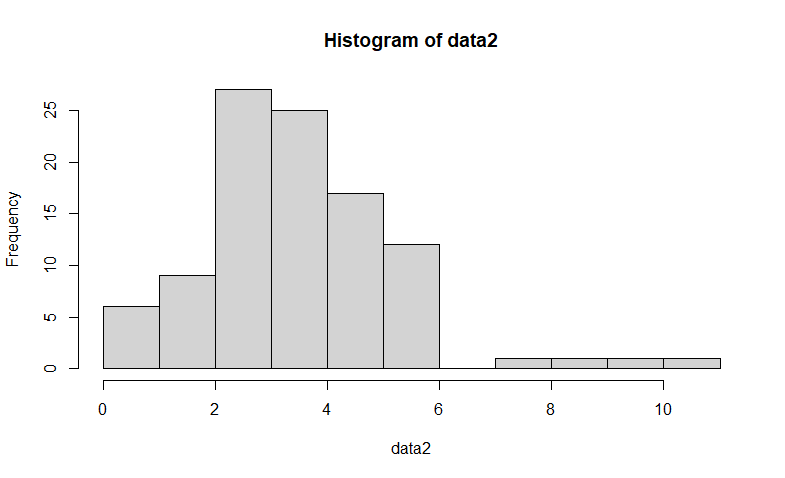
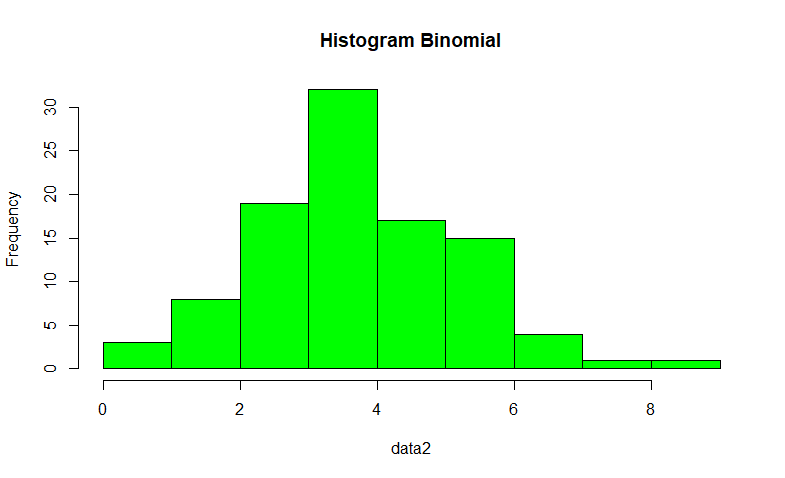
fix: mean and varians for soal2

diff --git a/README.md b/README.md
@@ -117,31 +117,33 @@ Gambarkan grafik histogram berdasarkan kasus tersebut.
 ## b
 n = 100
 data2 = rbinom(n, size, prob) ;data2
-hist(data2)
+
+hist(data2, main = "Histogram Binomial", col = "green")
 ```
 
 ![2.b](screenshot/2.b.png)
 
 ![2.b.1](screenshot/2.b.1.png)
 
-**Penjelasan** : Menggunakan fungsi `rbinom()` untuk mencari distribusi binomial dengan n data random (karena tidak disebutkan disoal, mengambil nilai sembarang `n = 100`) dan fungsi `hist()` untuk membuat histogram distribusi binomial dari `data2`.
+**Penjelasan** : Menggunakan fungsi `rbinom()` untuk mencari distribusi binomial dengan n data random (karena tidak disebutkan disoal, maka mengambil nilai sembarang `n = 100`) dan fungsi `hist()` untuk membuat histogram distribusi binomial dari `data2`.
 
 ### 2.c
 Nilai Rataan (μ) dan Varian (σ²) dari DistribusiBinomial.
 
 ``` r
 ## c
-mean(data2)
-var(data2)
+mean = size * prob ;mean
+
+var = size * prob * (1 - prob) ;var
 ```
 
 ![2.c](screenshot/2.c.png)
 
 **Hasil** :
-- Rataan (μ)  = 3.98
-- Varian (σ²) = 3.252121
+- Rataan (μ)  = 4
+- Varian (σ²) = 3.2
 
-**Penjelasan** : Menggunakan fungsi `mean()` dan `var()` untuk mencari nilai rataan dan varian dari `data2`.
+**Penjelasan** : Untuk mencari mean pada distribusi geometrik menggunakan rumus `n*p` sedangkan untuk mencari varian mengunakan rumus `n*p*(1 - p)`..
 
 ***
 
